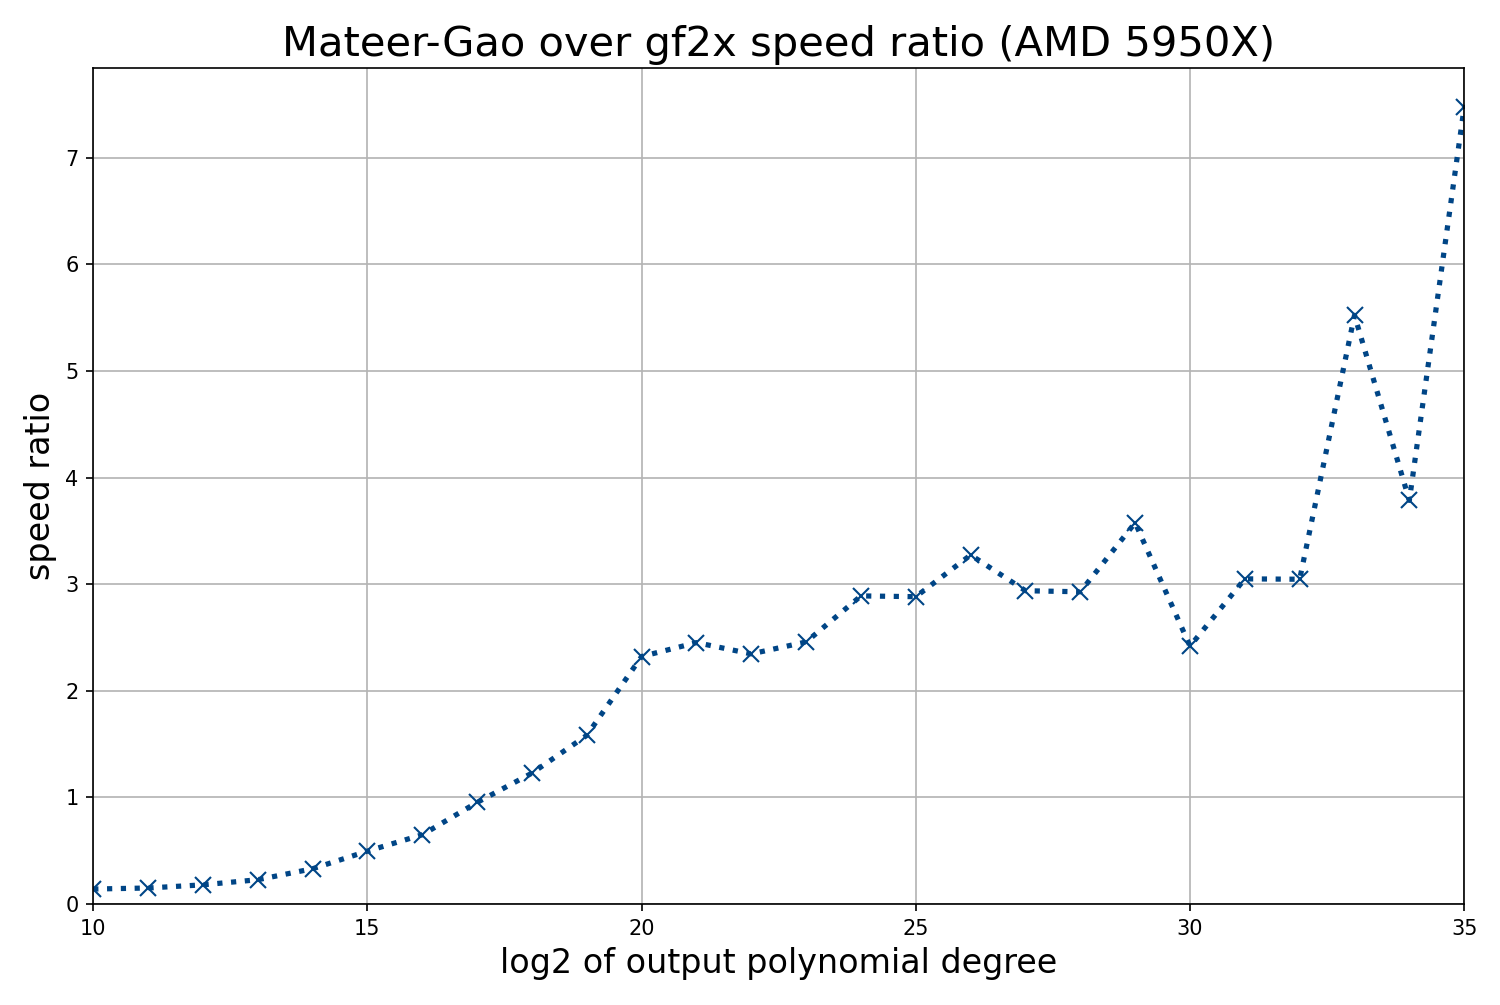
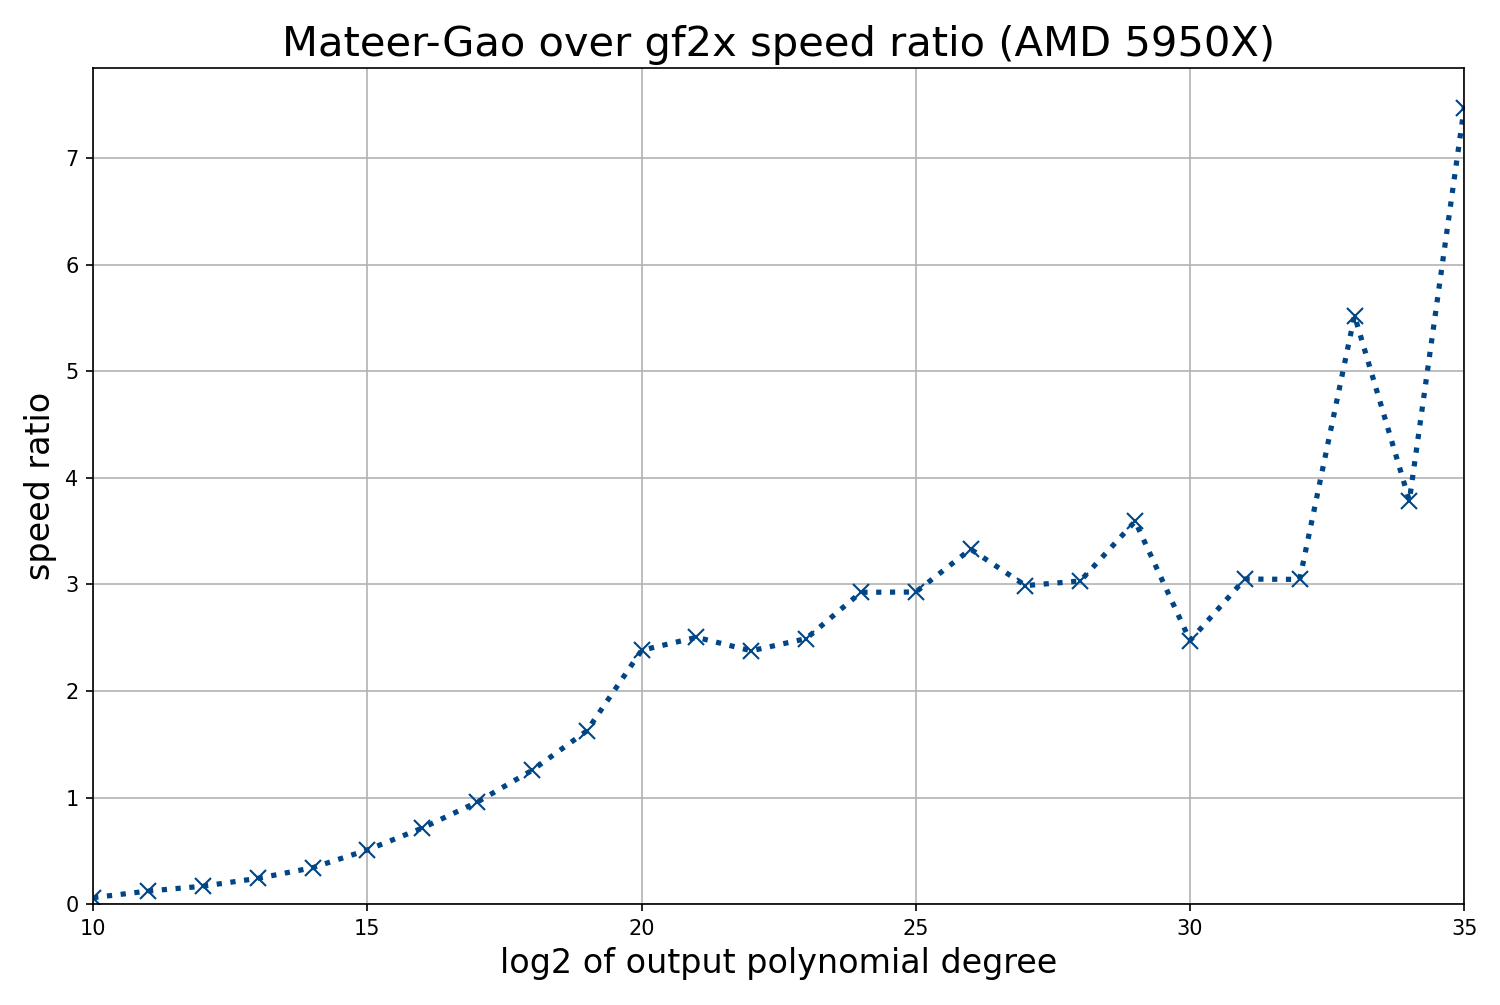
product_test: time batches of runs, and update benchmark results
Reading the clock (about 25 ns) after each run biased the times of the smallest products.
Runs are now timed in batches of at least 1 ms (time_calls); max_runs is raised accordingly.
README, CSV and graphs: new timings for sizes 10-30 (plain variant, gf2x), and for sizes 8-30
for the fused variant, now with its base case. The text on crossovers with gf2x is corrected.

diff --git a/product_test.cpp b/product_test.cpp
@@ -42,13 +42,48 @@ constexpr bool benchmark = true;
 // maximum execution time for each test (except if 1 run exceeds this time)
 constexpr double min_time = 2.;
 // maximum number of runs for each test
-constexpr uint64_t max_runs = 100;
+constexpr uint64_t max_runs = 1000000000;
 //constexpr uint64_t max_runs = 1;
+// minimum duration of a batch of runs (see time_calls)
+constexpr double batch_min_time = 1e-3;
 
 // compile-time test that platform is little endian
 // (required by the implementation of 'contract' and 'expand' in mg.cpp)
 // gcc only
 // static_assert( __BYTE_ORDER__ == __ORDER_LITTLE_ENDIAN__);
+
+// Calls f repeatedly and returns the average duration of a call in seconds.
+// The first call is made alone; once it is done, after_first is called (to extract its result) and,
+// if 'benchmark' is set and the first call lasted less than min_time, more calls are made in batches,
+// until min_time seconds have elapsed or max_runs calls have been made. Calls are timed by batch
+// of at least batch_min_time seconds (batches get larger as long as they are shorter), because the
+// cost of reading the clock is not negligible with respect to the duration of a small product
+// (about 25 ns). The first call, which is slower than the others (cold caches), is only used if
+// there are no other calls.
+// run_count is set to the number of calls.
+template<class F, class G> static double time_calls(F f, G after_first, uint64_t& run_count)
+{
+  timer tm;
+  tm.set_start();
+  f();
+  const double t_first = tm.measure();
+  after_first();
+  run_count = 1;
+  if(!benchmark || t_first > min_time) return t_first;
+  double total = 0;
+  uint64_t batch = 1, calls = 0;
+  while(total <= min_time && run_count < max_runs)
+  {
+    tm.set_start();
+    for(uint64_t i = 0; i < batch; i++) f();
+    const double t_batch = tm.measure();
+    total += t_batch;
+    calls += batch;
+    run_count += batch;
+    if(t_batch < batch_min_time) batch *= 2;
+  }
+  return calls == 0 ? t_first : total / (double) calls;
+}
 
 // naive product of binary polynomials, for the degree tests below
 static void naive_bit_product(const uint64_t* a, uint64_t d1, const uint64_t* b, uint64_t d2, uint64_t* r)
@@ -122,12 +157,10 @@ static bool degree_test(uint64_t max_degree)
 
 static bool mateer_gao_product_test(
     unsigned int* log_sz,
-    unsigned int num_sz,
-    bool benchmark)
+    unsigned int num_sz)
 {
   uint64_t run_count;
   double t1 = 0, t2 = 0;
-  timer tm;
   bool local_error, error = false;
   cout << "Testing F2 polynomial product through Mateer-Gao DFT in GF(2**64)" << endl;
   cout << "Minimum execution time per test: " << min_time << " sec." << endl;
@@ -180,7 +213,6 @@ static bool mateer_gao_product_test(
       p1[i] = draw();
       p2[i] = draw();
     }
-    tm.set_start();
     uint32_t e_sz = 0;
     if constexpr(do_gf2x)
     {
@@ -188,16 +220,11 @@ static bool mateer_gao_product_test(
       if(do_gf2x_local)
       {
         cout << " Performing product with gf2x" << endl;
-        do
-        {
-          unsigned long ulsz = (unsigned long) (sz / (16*sizeof(unsigned long)));
-          gf2x_mul((unsigned long *) p3,(unsigned long *) p1, ulsz, (unsigned long *) p2, ulsz);
-          if(run_count == 0) e_sz =  extract<uint64_t>(p3, sz/64, e1, extract_size);
-          run_count++;
-          t1 = tm.measure();
-        }
-        while(benchmark && (t1 <= min_time) && (run_count < max_runs));
-        t1 /= (double) run_count;
+        const unsigned long ulsz = (unsigned long) (sz / (16*sizeof(unsigned long)));
+        t1 = time_calls(
+            [&]{gf2x_mul((unsigned long *) p3,(unsigned long *) p1, ulsz, (unsigned long *) p2, ulsz);},
+            [&]{e_sz =  extract<uint64_t>(p3, sz/64, e1, extract_size);},
+            run_count);
         cout << " gf2x runs: " << run_count << endl;
         cout << " gf2x time per run: " << t1 << " sec." << endl;
         // reset result
@@ -225,10 +252,7 @@ static bool mateer_gao_product_test(
     }
 
     cout << " Performing product with MG DFT" << endl;
-    tm.set_start();
-    run_count = 0;
-
-    do
+    auto mg_product = [&]
     {
       if constexpr(compute_in_place)
       {
@@ -247,14 +271,15 @@ static bool mateer_gao_product_test(
           else mg_binary_polynomial_multiply(p1, p2, p3, sz/2 - 1, sz/2 - 1);
         }
       }
-      uint64_t* result = compute_in_place ? p1 : p3;
-      if(compare && (run_count == 0)) extract<uint64_t>(result, sz/64, e2, extract_size);
-      run_count++;
-      t2 = tm.measure();
-
-    }
-    while(benchmark && (t2 <= min_time) && (run_count < max_runs));
-    t2 /= (double) run_count;
+    };
+    t2 = time_calls(
+        mg_product,
+        [&]
+        {
+          uint64_t* result = compute_in_place ? p1 : p3;
+          if(compare) extract<uint64_t>(result, sz/64, e2, extract_size);
+        },
+        run_count);
     cout << " Mateer-Gao runs: " << run_count << endl;
     cout << " Mateer-Gao product time per run: " << t2 << " sec." << endl;
     if(compare)
@@ -298,7 +323,7 @@ int main(int UNUSED(argc), char** UNUSED(argv))
   }
   unsigned int num_sz = sizeof(log_sz) / sizeof(unsigned int);
   bool mateer_gao_error = degree_test(300);
-  mateer_gao_error |= mateer_gao_product_test(log_sz, num_sz, benchmark);
+  mateer_gao_error |= mateer_gao_product_test(log_sz, num_sz);
   if(mateer_gao_error) cout << "Mateer-Gao product test failed" << endl;
   return mateer_gao_error? EXIT_FAILURE : EXIT_SUCCESS;
 }

diff --git a/README.md b/README.md
@@ -20,31 +20,31 @@ Both an in-place and a not-in-place product variant are provided. The in-place v
 
 ### Product computation time results
 
-Experiments on a PC with an AMD Ryzen 9 5950X CPU and 64GB of DDR4 RAM @1800MHz (3600 MT/s), with gf2x 1.3, are summarized below. Results are for the in-place product variant. The code was compiled with gcc using `-march=native` (which enables the 256-bit `vpclmulqdq` code path on this CPU). Each time is an average over repeated runs (repeated until 2 s have elapsed, at most 100 runs per size). These figures were obtained by running `product_test` with `gf2x_max_logsize = 35` and the size list set to u = 10...35. The raw numbers are in `2026-10-results_in_place.csv`. The 64GB of RAM do not allow the in-place product of size 2<sup>36</sup> to be computed.
+Experiments on a PC with an AMD Ryzen 9 5950X CPU and 64GB of DDR4 RAM @1800MHz (3600 MT/s), with gf2x 1.3, are summarized below. Results are for the in-place product variant. The code was compiled with gcc using `-march=native` (which enables the 256-bit `vpclmulqdq` code path on this CPU). Each time is an average over repeated runs, which are timed in batches (a batch lasts at least 1 ms, and runs are repeated until 2 s have elapsed), as reading the clock takes about 25 ns, which is not negligible for the smallest sizes. The figures for u = 10...30 were obtained by running `product_test` with `gf2x_max_logsize = 30` and the size list set to u = 8...30; those for u = 31...35 were obtained with a previous version of `product_test` that timed each run (which makes no difference at these sizes). The raw numbers are in `2026-10-results_in_place.csv`. The 64GB of RAM do not allow the in-place product of size 2<sup>36</sup> to be computed.
 
 |Output log2 size|gf2x product time (sec.)|Mateer-Gao product time (sec.)|
 |:----:|:----:|:----:|
-|10| 6.8e-08| 4.817e-07|
-|11| 1.378e-07| 9.135e-07|
-|12| 3.536e-07| 1.957e-06|
-|13| 9.404e-07| 4.114e-06|
-|14| 2.906e-06| 8.765e-06|
-|15| 8.354e-06| 1.681e-05|
-|16| 2.381e-05| 3.662e-05|
-|17| 6.841e-05| 7.173e-05|
-|18| 0.000185| 0.0001506|
-|19| 0.0005032| 0.000318|
-|20| 0.001591| 0.0006849|
-|21| 0.00347| 0.001415|
-|22| 0.007261| 0.003094|
-|23| 0.01587| 0.006454|
-|24| 0.0391| 0.01352|
-|25| 0.08211| 0.02848|
-|26| 0.1951| 0.05957|
-|27| 0.3747| 0.1275|
-|28| 0.9282| 0.3168|
-|29| 2.464| 0.6889|
-|30| 3.672| 1.518|
+|10| 2.046e-08| 3.397e-07|
+|11| 8.967e-08| 7.335e-07|
+|12| 2.663e-07| 1.585e-06|
+|13| 8.018e-07| 3.322e-06|
+|14| 2.447e-06| 7.171e-06|
+|15| 7.89e-06| 1.553e-05|
+|16| 2.296e-05| 3.218e-05|
+|17| 6.528e-05| 6.825e-05|
+|18| 0.0001819| 0.000145|
+|19| 0.0004993| 0.0003072|
+|20| 0.001584| 0.000665|
+|21| 0.003457| 0.001381|
+|22| 0.007146| 0.003006|
+|23| 0.01583| 0.006355|
+|24| 0.03877| 0.01325|
+|25| 0.08161| 0.02786|
+|26| 0.1932| 0.058|
+|27| 0.3703| 0.1239|
+|28| 0.9148| 0.3017|
+|29| 2.449| 0.6817|
+|30| 3.67| 1.484|
 |31| 9.827| 3.221|
 |32| 22.11| 7.256|
 |33| 87.79| 15.9|
@@ -57,43 +57,45 @@ Experiments on a PC with an AMD Ryzen 9 5950X CPU and 64GB of DDR4 RAM @1800MHz 
 
 ### Fused variant
 
-The plain product above (`libfft/mg.cpp`, `include/mg.h`) is a direct implementation of the Mateer-Gao algorithm. A second implementation, `libfft/mg_fused.cpp` (`include/mg_fused.h`, namespace `mg_fused`), has the same interface and gives the same results, but is 1.1 to 1.8 times faster; it is a copy of `mg.cpp` that adds one optimization and leaves the original untouched.
+The plain product above (`libfft/mg.cpp`, `include/mg.h`) is a direct implementation of the Mateer-Gao algorithm. A second implementation, `libfft/mg_fused.cpp` (`include/mg_fused.h`, namespace `mg_fused`), has the same interface and gives the same results, but is 1.1 to 10 times faster (the largest gains are at the smallest sizes); it is a copy of `mg.cpp` that adds one optimization and leaves the original untouched.
 
 **Principle.** The DFT is computed recursively on a square array: the Taylor decomposition and DFTs on columns first, then DFTs on rows. In the product, the forward DFTs of both operands, the pointwise product and the first stages of the inverse DFT are chained, so at the end of the forward DFTs the rows are polynomials of degree < R (R = 4, 16 or 256 words) evaluated on a coset a + GF(R) of the subfield GF(R) of GF(2<sup>64</sup>), which is possible because the beta basis is a Cantor basis. For a row, "DFT of both operands, pointwise product, inverse DFT" is therefore just a product of two polynomials of degree < R modulo the polynomial vanishing on the coset, x<sup>R</sup> + x + c, with c = a<sup>R</sup> + a (c is already known to the DFT code: it is the offset of the next recursion level). The fused variant does not perform these DFT stages on rows of 16 words (4 words for the smallest sizes): it computes the product of the rows directly.
 
 **Implementation.** A row product is computed with Karatsuba on carry-less 64x64-bit products that are left unreduced (the reduction is linear over F2 and done once at the end), then reduced modulo x<sup>R</sup> + x + c, which costs one multiplication by c per coefficient since x<sup>R</sup> = x + c. When the CPU supports it (see above), two rows are processed at once with 256-bit `vpclmulqdq`; otherwise a 128-bit version is used. The direct product beats the chain of DFTs for R = 4 and 16 (by a factor of 2 to 3 on a row) but not for R = 256, hence the choice of these row sizes. See `CODE_GUIDE.md` for more details.
 
+**Base case.** For small products (operands of at most 2<sup>13</sup> bits, i.e. 128 64-bit words, so results of up to 2<sup>14</sup> bits), the DFT is not used at all: the product is computed directly by Karatsuba on carry-less 64x64-bit products (one `pclmulqdq` for operands of at most 64 bits, three for 128 bits, and so on; schoolbook multiplication below 4 words). This is faster than the DFT-based product up to 2<sup>14</sup> bits (1.3 to 10 times faster, versus the fused DFT-based product); at 2<sup>15</sup> bits both are equal, and above the DFT wins (1.4 times faster at 2<sup>16</sup>). This crossover and the other parameters were set by experiment (macros `MG_FUSED_BASE_LOGN`, `MG_FUSED_BASE_KT` in `mg_fused.cpp`; `MG_FUSED_BASE_LOGN=-1` disables the base case). This base case is not as fast as the one in gf2x, which is 1.3 times faster for products of 2<sup>10</sup> to 2<sup>14</sup> bits.
+
 **Use.** The functions of `mg_fused.h` are drop-in replacements for those of `mg.h`. `product_test` uses them if the constant `use_fused_variant` at the top of `product_test.cpp` is set to `true`. Both variants are tested by `degree_test` in `product_test`.
 
-**Results.** Same machine as above (AMD 5950X, in-place product, same measurement method). The three columns were measured in the same run, and the results of both variants are checked against gf2x at each size:
+**Results.** Same machine as above (AMD 5950X, in-place product, same measurement method; these are the same figures as the first two columns of the table above for the sizes in common). Plain and fused variants were measured in separate runs of `product_test` (for sizes up to 2<sup>20</sup>, the fused column was measured again after the base case was added), and the results of both variants are checked against gf2x at each size. For gf2x, the smallest of the measured times is given:
 
 |Output log2 size|gf2x (sec.)|Mateer-Gao (sec.)|fused Mateer-Gao (sec.)|speedup of fused over plain|speed ratio fused / gf2x|
 |:----:|:----:|:----:|:----:|:----:|:----:|
-|8| 3.69e-08| 2.527e-07| 1.877e-07| 1.35| 0.20|
-|9| 3.56e-08| 2.257e-07| 1.824e-07| 1.24| 0.20|
-|10| 5.18e-08| 4.085e-07| 3.294e-07| 1.24| 0.16|
-|11| 1.503e-07| 9.755e-07| 5.738e-07| 1.70| 0.26|
-|12| 3.282e-07| 1.854e-06| 1.115e-06| 1.66| 0.29|
-|13| 9.234e-07| 4.023e-06| 2.552e-06| 1.58| 0.36|
-|14| 2.867e-06| 9.547e-06| 5.327e-06| 1.79| 0.54|
-|15| 8.707e-06| 1.737e-05| 1.176e-05| 1.48| 0.74|
-|16| 2.322e-05| 3.238e-05| 2.29e-05| 1.41| 1.01|
-|17| 6.372e-05| 6.96e-05| 4.978e-05| 1.40| 1.28|
-|18| 0.000179| 0.000158| 0.0001179| 1.34| 1.52|
-|19| 0.000492| 0.0003158| 0.0002381| 1.33| 2.07|
-|20| 0.001586| 0.0006484| 0.0004985| 1.30| 3.18|
-|21| 0.003469| 0.001448| 0.001125| 1.29| 3.09|
-|22| 0.007067| 0.00288| 0.00228| 1.26| 3.10|
-|23| 0.01587| 0.006657| 0.005317| 1.25| 2.99|
-|24| 0.03832| 0.01306| 0.01045| 1.25| 3.67|
-|25| 0.08007| 0.02724| 0.02215| 1.23| 3.62|
-|26| 0.1889| 0.05712| 0.04662| 1.23| 4.05|
-|27| 0.3643| 0.1213| 0.1003| 1.21| 3.63|
-|28| 0.894| 0.304| 0.2593| 1.17| 3.45|
-|29| 2.378| 0.6827| 0.5928| 1.15| 4.01|
-|30| 3.541| 1.478| 1.298| 1.14| 2.73|
+|8| 6.535e-09| 9.498e-08| 1.173e-08| 8.10| 0.56|
+|9| 9.667e-09| 1.742e-07| 1.63e-08| 10.68| 0.59|
+|10| 2.046e-08| 3.397e-07| 3.718e-08| 9.14| 0.55|
+|11| 8.967e-08| 7.335e-07| 1.133e-07| 6.47| 0.79|
+|12| 2.663e-07| 1.585e-06| 3.534e-07| 4.49| 0.75|
+|13| 8.018e-07| 3.322e-06| 1.071e-06| 3.10| 0.75|
+|14| 2.414e-06| 7.171e-06| 3.318e-06| 2.16| 0.73|
+|15| 7.832e-06| 1.553e-05| 1.056e-05| 1.47| 0.74|
+|16| 2.296e-05| 3.218e-05| 2.257e-05| 1.43| 1.02|
+|17| 6.528e-05| 6.825e-05| 4.891e-05| 1.40| 1.33|
+|18| 0.0001819| 0.000145| 0.0001085| 1.34| 1.68|
+|19| 0.0004993| 0.0003072| 0.0002339| 1.31| 2.13|
+|20| 0.001584| 0.000665| 0.0005043| 1.32| 3.14|
+|21| 0.003457| 0.001381| 0.001066| 1.29| 3.24|
+|22| 0.007146| 0.003006| 0.002372| 1.27| 3.01|
+|23| 0.01583| 0.006355| 0.005072| 1.25| 3.12|
+|24| 0.03877| 0.01325| 0.01074| 1.23| 3.61|
+|25| 0.08161| 0.02786| 0.02264| 1.23| 3.60|
+|26| 0.1932| 0.058| 0.04771| 1.22| 4.05|
+|27| 0.3703| 0.1239| 0.1026| 1.21| 3.61|
+|28| 0.9148| 0.3017| 0.2563| 1.18| 3.57|
+|29| 2.449| 0.6817| 0.5878| 1.16| 4.17|
+|30| 3.67| 1.484| 1.297| 1.14| 2.83|
 
-The advantage of the fused variant is largest for sizes of 2<sup>11</sup> to 2<sup>15</sup> (1.5 to 1.8x) and decreases to 1.1 - 1.2x at 2<sup>28</sup> to 2<sup>30</sup>, where the last DFT stages weigh less. The fused variant overtakes gf2x at output size 2<sup>16</sup>, the plain variant at 2<sup>18</sup> in this run (2<sup>17</sup> in others). Below this size, gf2x is faster (up to about 6x at 2<sup>10</sup>).
+The fused variant is 8 to 11 times faster than the plain one up to 2<sup>10</sup> bits, thanks to the base case, 2 to 6 times faster from 2<sup>11</sup> to 2<sup>14</sup>, 1.4 times faster at 2<sup>15</sup> to 2<sup>16</sup>, and the advantage then decreases from 1.3x at 2<sup>20</sup> to 1.1 - 1.2x at 2<sup>28</sup> to 2<sup>30</sup>, where the last DFT stages weigh less. The fused variant overtakes gf2x at output size 2<sup>16</sup> (2<sup>18</sup> for the plain variant). Below this size gf2x is faster, by a factor of 1.3 to 1.8 for 2<sup>8</sup> to 2<sup>15</sup>.
 
 ### Product memory requirements
 

diff --git a/CODE_GUIDE.md b/CODE_GUIDE.md
@@ -147,8 +147,8 @@ a 'pure' implementation).
 
 - `product_test.cpp` multiplies random polynomials of degree 2^(lsz-1) - 1. The default list is
   `{8..19, 25, 30, 34}`. gf2x comparison is limited to lsz <= 25 (`gf2x_max_logsize`). Settings:
-  `test_in_place_variant`, `test_naive_product`, `benchmark`, `min_time` (2 s) and `max_runs`
-  (100). Exit code 0 means all comparisons passed. It requires the CPU flags AVX2, PCLMULQDQ,
+  `test_in_place_variant`, `test_naive_product`, `benchmark`, `min_time` (2 s, runs are timed
+  by batches of at least `batch_min_time` = 1 ms) and `max_runs`. Exit code 0 means all comparisons passed. It requires the CPU flags AVX2, PCLMULQDQ,
   POPCNT and BMI1, and exits with code 2 otherwise.
   - `degree_test` first compares the in-place and out-of-place products of both variants with a naive product for all degrees d1 >= d2 up to 300, with minimal buffers and checking that the bits above the degree of the result are zero. It covers the operands of at most 64 bits and the degrees that are not of the form 2**k - 1.
 - `fft_test.cpp` runs six tests, switchable through `run_tests[]`: VzGG DFT against direct
